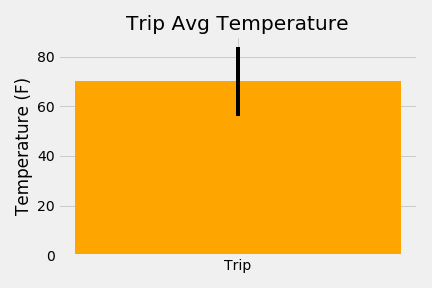
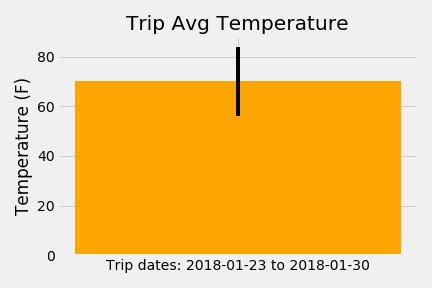
Adding bonus temp analysis

Changed region(s): [[0.2407, 0.9062, 0.8727, 0.9375]]

diff --git a/README.md b/README.md
@@ -35,3 +35,11 @@ The notebook created the following graphs:
 * Date parameters must be in format YYYY-MM-DD to return a result. Returns a JSON list of the minimum temperature, the average temperature, and the max temperature between a given start date and end date. Date range in database is 2010-01-01 to 2017-08-23
 
 N.B.: Date range and station with most observations are variable should more data be added to the database.
+
+## Bonus Analysis
+
+### Trip Temperature Analysis
+
+Further down in the aforementioned [notebook](climate.ipynb), you can input dates of a trip to analyse the temperature of the previous year's dates, then plot a bar chart of the average temperature, with an error bar calculated from the max and min temperatures.
+
+![Trip Avg Temperature Example](images/trip_avg_temp.png)
